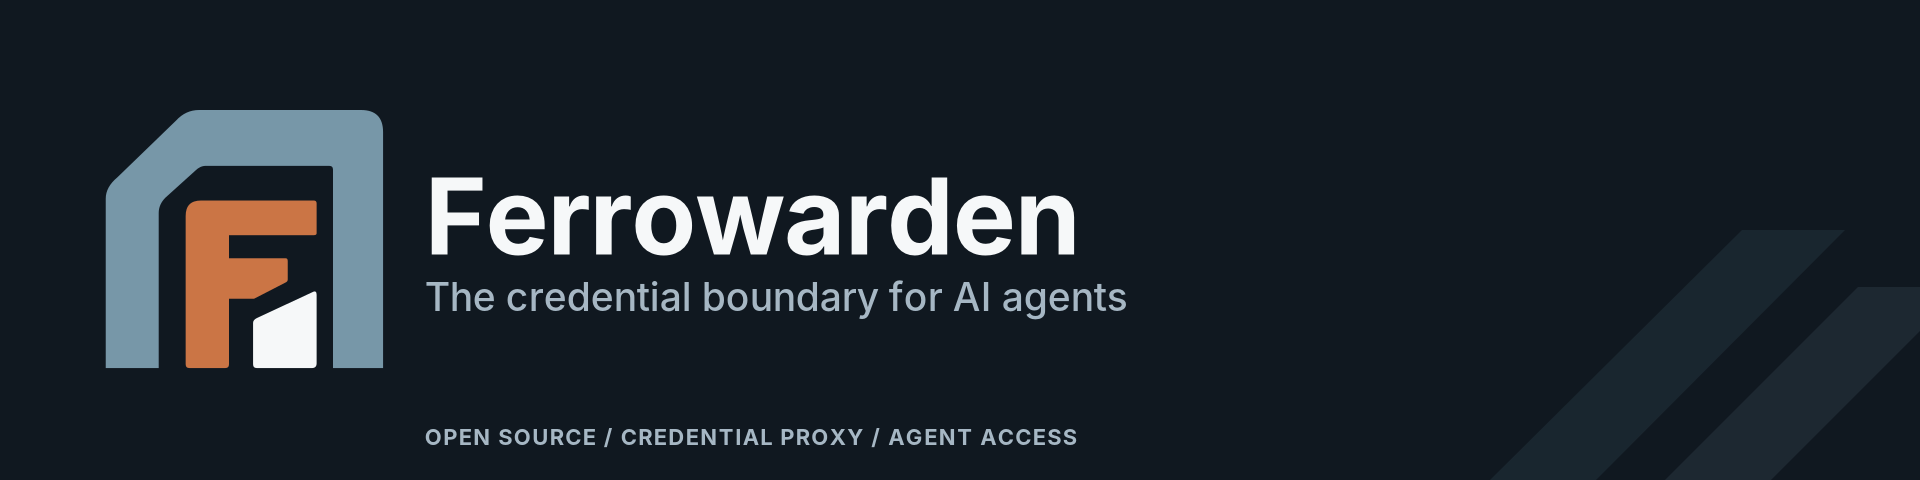
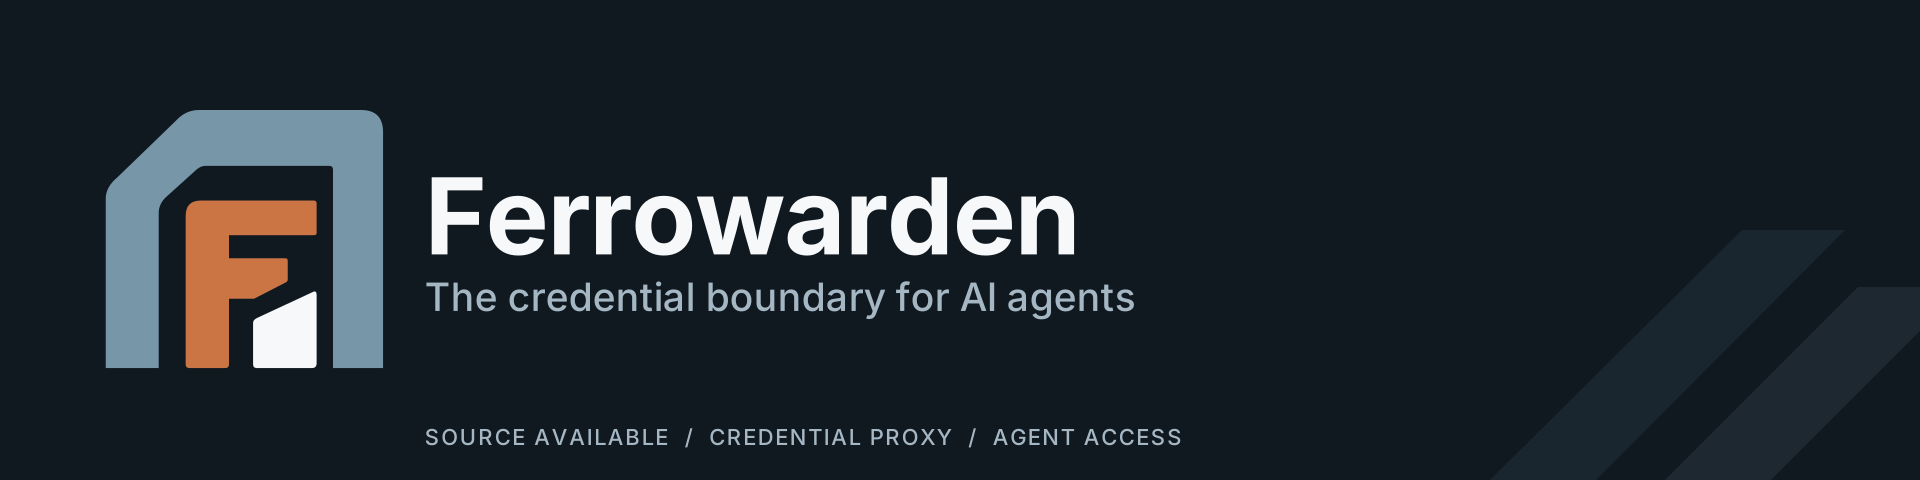
Relicense future releases under FSL-1.1-ALv2 and add a contributor licence agreement (#38)
Ferrowarden becomes source-available under the Functional Source License
1.1 with the Apache-2.0 future licence: any use except a competing
commercial product or service, with each release converting to Apache-2.0
two years after publication. Releases up to v0.1.0 remain MIT.

Adds CLA.md and a pull request template, and changes "open-source" to
"source-available" across the README, docs, release notes and brand kit
(including the site-hero banner text and its manifest hashes).

Changed region(s): [[0.2188, 0.875, 0.625, 0.9375], [0.2188, 0.5938, 0.5938, 0.6562]]

diff --git a/branding/scripts/build_assets.py b/branding/scripts/build_assets.py
@@ -119,7 +119,7 @@ def banner_inner(w,h,style='dark',tagline=True,label=None,hero=False):
     if label:
         ins+=txt(w-55,h-37,label.upper(),23,650,C['copper'] if dark else C['steel'],letter_spacing='1.8',anchor='end')
     if hero:
-        ins+=txt(textx,h-35,'OPEN SOURCE  /  CREDENTIAL PROXY  /  AGENT ACCESS',22,620,subt,letter_spacing='1.5')
+        ins+=txt(textx,h-35,'SOURCE AVAILABLE  /  CREDENTIAL PROXY  /  AGENT ACCESS',22,620,subt,letter_spacing='1.5')
     return ins
 
 # 1. Vector icon masters

diff --git a/CLA.md b/CLA.md
@@ -1,0 +1,40 @@
+# Ferrowarden Individual Contributor License Agreement
+
+Thank you for contributing to Ferrowarden. This agreement lets the project's owner, Robert Howard ("the Maintainer"), accept your contribution, distribute it under the project's current licence, and relicense or commercially license the project in the future, while you keep ownership of your work.
+
+> This agreement is provided as a starting point and has not yet been reviewed by a lawyer. It may be replaced by a reviewed version; contributions made under this version remain covered by it.
+
+## 1. Definitions
+
+- **"You"** means the individual who submits a Contribution.
+- **"Contribution"** means any original work of authorship, including any changes or additions to an existing work, that You intentionally submit to the Maintainer for inclusion in Ferrowarden, for example through a pull request, patch, issue or other communication via the project's repository or channels. A work marked by You in writing as "Not a Contribution" is not a Contribution.
+
+## 2. Copyright licence
+
+You grant the Maintainer, and recipients of software distributed by the Maintainer, a perpetual, worldwide, non-exclusive, no-charge, royalty-free, irrevocable copyright licence to reproduce, prepare derivative works of, publicly display, publicly perform, sublicense and distribute Your Contributions and such derivative works, **under any licence terms, including proprietary and commercial terms**. You keep the copyright in Your Contributions and may use them for any other purpose.
+
+## 3. Patent licence
+
+You grant the Maintainer, and recipients of software distributed by the Maintainer, a perpetual, worldwide, non-exclusive, no-charge, royalty-free, irrevocable (except as stated in this section) patent licence to make, have made, use, offer to sell, sell, import and otherwise transfer Your Contributions, where the licence applies only to patent claims licensable by You that are necessarily infringed by Your Contribution alone or by its combination with Ferrowarden. If any entity institutes patent litigation alleging that Your Contribution, or Ferrowarden, constitutes direct or contributory patent infringement, any patent licences granted to that entity under this agreement end on the date the litigation is filed.
+
+## 4. Your representations
+
+You represent that:
+
+1. You are legally entitled to grant the above licences. If Your employer has rights to intellectual property You create, You have permission to make Contributions on its behalf, or Your employer has waived those rights for Your Contributions.
+2. Each Contribution is Your original creation, or You have identified its origin and any licence or other restriction that applies to it, in the submission.
+3. Your Contribution does not, to Your knowledge, violate anyone else's rights.
+
+You will notify the Maintainer if You become aware of facts that make these representations inaccurate.
+
+## 5. No obligation, no warranty
+
+The Maintainer is not obliged to use Your Contribution. Unless required by law or agreed in writing, You provide Your Contributions "as is", without warranties or conditions of any kind.
+
+## 6. How to agree
+
+Add the following line to the description of your first pull request (or comment it on the pull request):
+
+> I have read the Ferrowarden CLA (CLA.md) and agree to its terms for this and all my future contributions to Ferrowarden.
+
+Contributions on behalf of a company need a separate agreement with the Maintainer; open an issue or contact the Maintainer before submitting them.

diff --git a/docs/release-notes/v0.2.0.md b/docs/release-notes/v0.2.0.md
@@ -4,7 +4,7 @@
 
 > This release widens credential coverage with field placeholders, makes agent keys default-deny and scoped, adds an optional admin web UI, and records security events in a stable format for your SIEM. Review the upgrade notes and security changes before deployment: keys created with 0.1.0 become deny-all until you set a policy.
 
-Ferrowarden is an open-source credential proxy that runs alongside [Vaultwarden](https://github.com/dani-garcia/vaultwarden). Agents send requests with `{{vault:name}}` placeholders; Ferrowarden resolves the credentials, forwards the request, and scrubs known credential values from the response. It is a sidecar to Vaultwarden, not a fork or replacement, and is not affiliated with Vaultwarden or Bitwarden.
+Ferrowarden is a source-available credential proxy that runs alongside [Vaultwarden](https://github.com/dani-garcia/vaultwarden). Agents send requests with `{{vault:name}}` placeholders; Ferrowarden resolves the credentials, forwards the request, and scrubs known credential values from the response. It is a sidecar to Vaultwarden, not a fork or replacement, and is not affiliated with Vaultwarden or Bitwarden.
 
 ## Highlights
 
@@ -38,6 +38,10 @@ Ferrowarden is an open-source credential proxy that runs alongside [Vaultwarden]
 ## Security notes
 
 Ferrowarden narrows how credentials are exposed to agents; it does not remove every risk. Scrubbing has limits, a credential sent to a host it is bound to is in that host's hands, and a compromised Ferrowarden host exposes credentials. Read [docs/security.md](../security.md) for the threat model and limits. To report a vulnerability, follow the [Security Policy](../../SECURITY.md).
+
+## Licence
+
+Starting with this release, Ferrowarden is **source-available under the [Functional Source License 1.1, ALv2 Future License](../../LICENSE) (FSL-1.1-ALv2)**. You can self-host, modify and redistribute it for any purpose except offering it, or something substantially similar, as a competing commercial product or service. Each release becomes Apache-2.0 two years after it is published. v0.1.0 remains MIT-licensed. Contributions require the [Contributor License Agreement](../../CLA.md).
 
 ## Upgrading
 

diff --git a/README.md b/README.md
@@ -6,9 +6,9 @@
 # Ferrowarden
 
 [![Test](https://github.com/mallard1983/ferrowarden/actions/workflows/test.yml/badge.svg)](https://github.com/mallard1983/ferrowarden/actions/workflows/test.yml)
-[![License: MIT](https://img.shields.io/badge/license-MIT-blue.svg)](LICENSE)
+[![License: FSL-1.1-ALv2](https://img.shields.io/badge/license-FSL--1.1--ALv2-blue.svg)](LICENSE)
 
-**The credential boundary for AI agents.** Ferrowarden is an open-source credential proxy that sits alongside Vaultwarden. AI agents send requests using `{{vault:name}}` placeholders; Ferrowarden resolves credentials and forwards requests, without returning the secret values to the agent by design.
+**The credential boundary for AI agents.** Ferrowarden is a source-available credential proxy that sits alongside Vaultwarden. AI agents send requests using `{{vault:name}}` placeholders; Ferrowarden resolves credentials and forwards requests, without returning the secret values to the agent by design.
 
 Ferrowarden resolves the credential through the Bitwarden CLI's vault API (`bw serve`), makes the outbound call, and scrubs known credential values from the response. The agent uses a scoped proxy key instead of direct vault access.
 
@@ -198,4 +198,11 @@ Contributions are welcome — bug reports, docs, tests and code. See [CONTRIBUTI
 
 ## License
 
-MIT — see [LICENSE](LICENSE).
+Ferrowarden is **source-available** under the [Functional Source License, Version 1.1, ALv2 Future License](LICENSE) (FSL-1.1-ALv2):
+
+- You may use, copy, modify and redistribute it for any purpose **except a Competing Use**: offering it, or something substantially similar, to others as a commercial product or service.
+- Self-hosting it for your own or your organisation's internal use, non-commercial education and research, and professional services for a licensee are explicitly permitted.
+- Each release **becomes Apache-2.0 two years after it is published**.
+- Releases up to and including **v0.1.0 remain under the MIT License** they were published with.
+
+For commercial licensing, open an issue or contact the maintainer. Contributions are accepted under the [Contributor License Agreement](CLA.md).

diff --git a/branding/docs/BRAND_GUIDE.md b/branding/docs/BRAND_GUIDE.md
@@ -9,7 +9,7 @@
 
 ## 1. What Ferrowarden is
 
-Ferrowarden is an **open-source credential proxy for AI agents**, deployed alongside Vaultwarden. An agent sends an outbound API request containing a named placeholder such as `{{vault:name}}`. Ferrowarden resolves the credential through the vault API layer, makes the outbound request, and scrubs credential values from the response before returning it. The agent receives a proxy-scoped credential rather than direct vault access.
+Ferrowarden is a **source-available credential proxy for AI agents**, deployed alongside Vaultwarden. An agent sends an outbound API request containing a named placeholder such as `{{vault:name}}`. Ferrowarden resolves the credential through the vault API layer, makes the outbound request, and scrubs credential values from the response before returning it. The agent receives a proxy-scoped credential rather than direct vault access.
 
 **One-sentence description:** Ferrowarden lets AI agents use named credentials to make API calls without exposing credential values to the agent.
 
@@ -94,7 +94,7 @@ The approved mark should retain its proportions and internal spacing regardless 
 
 ## 7. Brand tone
 
-Use a restrained, competent, open-source engineering voice. Describe how the proxy works and what users control. Prefer specific architectural wording over generic security superlatives.
+Use a restrained, competent, transparent engineering voice. Describe how the proxy works and what users control. Prefer specific architectural wording over generic security superlatives.
 
 **Use:** “Credential values stay outside the agent's conversation context by design”; “Scoped agent keys”; “Named credential references”; “Proxy-mediated requests.”
 

diff --git a/CONTRIBUTING.md b/CONTRIBUTING.md
@@ -69,6 +69,12 @@ cargo test --test integration -- --test-threads=1
 
 The [`branding/`](branding/README.md) kit is the source of truth for the Ferrowarden logo, colours, typography and voice (see [`branding/docs/VOICE_AND_MESSAGING.md`](branding/docs/VOICE_AND_MESSAGING.md) for the claims rules: no absolute security guarantees, no implied affiliation with Vaultwarden or Bitwarden). Use its assets as they are, regenerate exported files with the scripts in `branding/scripts/` (see [`branding/docs/MAINTAINING_ASSETS.md`](branding/docs/MAINTAINING_ASSETS.md)), and do not hand-edit exported PNG, SVG or favicon files.
 
-## Licence
+## Licence and Contributor License Agreement
 
-By contributing, you agree that your contributions are licensed under the project's [MIT License](LICENSE).
+Ferrowarden is source-available under the [FSL-1.1-ALv2](LICENSE) licence (each release becomes Apache-2.0 two years after publication).
+
+**Every contribution needs the [Contributor License Agreement](CLA.md).** It lets the maintainer distribute your contribution under the project licence and relicense or commercially license the project later; you keep the copyright in your work. To agree, add this line to the description of your first pull request:
+
+> I have read the Ferrowarden CLA (CLA.md) and agree to its terms for this and all my future contributions to Ferrowarden.
+
+Pull requests without it can't be merged. Contributions on behalf of a company need a separate agreement: open an issue first.

diff --git a/branding/docs/VOICE_AND_MESSAGING.md b/branding/docs/VOICE_AND_MESSAGING.md
@@ -4,7 +4,7 @@
 
 **Project:** Ferrowarden  
 **Tagline:** The credential boundary for AI agents  
-**Category:** Open-source credential proxy for AI agents
+**Category:** Source-available credential proxy for AI agents
 
 ### Approved positioning language
 
@@ -35,11 +35,11 @@ Prefer short declarative sentences, examples with real syntax, and concise reaso
 
 ### GitHub About description
 
-> Open-source credential proxy for AI agents. Use named vault placeholders instead of exposing secrets to model context.
+> Source-available credential proxy for AI agents. Use named vault placeholders instead of exposing secrets to model context.
 
 ### README opening
 
-> **The credential boundary for AI agents.** Ferrowarden is an open-source credential proxy that sits alongside Vaultwarden. AI agents send requests using `{{vault:name}}` placeholders; Ferrowarden resolves credentials and forwards requests, without returning the secret values to the agent by design.
+> **The credential boundary for AI agents.** Ferrowarden is a source-available credential proxy that sits alongside Vaultwarden. AI agents send requests using `{{vault:name}}` placeholders; Ferrowarden resolves credentials and forwards requests, without returning the secret values to the agent by design.
 
 ### Website intro
 

diff --git a/docs/architecture.md b/docs/architecture.md
@@ -2,7 +2,7 @@
 
 ## Overview
 
-Ferrowarden is an open-source credential proxy — a small HTTP service that sits between an AI agent and the services it needs to call. It runs as a sidecar to [Vaultwarden](https://github.com/dani-garcia/vaultwarden) (it is not a fork or replacement, and is not affiliated with Vaultwarden or Bitwarden). By design, the agent is never handed credential values. Instead, it sends requests with named placeholders; Ferrowarden looks up the real values, makes the call on the agent's behalf, and returns the response with known credential values and common credential patterns scrubbed out.
+Ferrowarden is a source-available credential proxy — a small HTTP service that sits between an AI agent and the services it needs to call. It runs as a sidecar to [Vaultwarden](https://github.com/dani-garcia/vaultwarden) (it is not a fork or replacement, and is not affiliated with Vaultwarden or Bitwarden). By design, the agent is never handed credential values. Instead, it sends requests with named placeholders; Ferrowarden looks up the real values, makes the call on the agent's behalf, and returns the response with known credential values and common credential patterns scrubbed out.
 
 ---
 

diff --git a/CHANGELOG.md b/CHANGELOG.md
@@ -41,6 +41,8 @@ All notable changes to this project are documented here. The format is based on 
 
 ### Changed
 
+- **Licence: Ferrowarden is now source-available under the Functional Source License 1.1, ALv2 Future License (FSL-1.1-ALv2).** Use, modification and redistribution are allowed for any purpose except offering it, or something substantially similar, as a commercial product or service (a "Competing Use"); self-hosting for internal use is explicitly permitted. Each release becomes Apache-2.0 two years after publication. v0.1.0 and earlier remain MIT-licensed. Contributions now require the [Contributor License Agreement](CLA.md).
+
 - **The startup log line now reads `Ferrowarden <version> starting — the credential boundary for AI agents`** (with a `version` field) instead of `Ferrowarden starting`. Update any log alert that matched the old text exactly; the `startup` security event is unchanged.
 - Revoking (or patching, or previewing) an unknown agent key id returns `404 Not Found` instead of `401`, as documented.
 - Malformed placeholders (anything starting with `{{vault:` that does not parse) are rejected with `422` instead of being forwarded as literal text.

diff --git a/branding/README.md b/branding/README.md
@@ -2,7 +2,7 @@
 
 **The credential boundary for AI agents**
 
-This package contains editable, scalable logos and ready-to-use exported assets for the open-source [Ferrowarden](https://github.com/mallard1983/ferrowarden) project, plus written documentation. The design follows the **user-approved hybrid logo reference** included at `source/approved-reference.png`; the logo is **not** the earlier crenellated or original concept.
+This package contains editable, scalable logos and ready-to-use exported assets for the source-available [Ferrowarden](https://github.com/mallard1983/ferrowarden) project, plus written documentation. The design follows the **user-approved hybrid logo reference** included at `source/approved-reference.png`; the logo is **not** the earlier crenellated or original concept.
 
 ![Approved Ferrowarden light and dark logo variants](previews/brand-kit-overview.png)
 

diff --git a/.github/pull_request_template.md b/.github/pull_request_template.md
@@ -1,0 +1,13 @@
+## What this changes
+
+<!-- What and why. Link the issue it closes, e.g. "Closes #123". -->
+
+## How it was tested
+
+<!-- Unit / integration tests, manual checks. See CONTRIBUTING.md. -->
+
+## Contributor License Agreement
+
+<!-- Required for every contributor's first pull request. Keep the line below if you agree. -->
+
+I have read the Ferrowarden CLA (CLA.md) and agree to its terms for this and all my future contributions to Ferrowarden.
